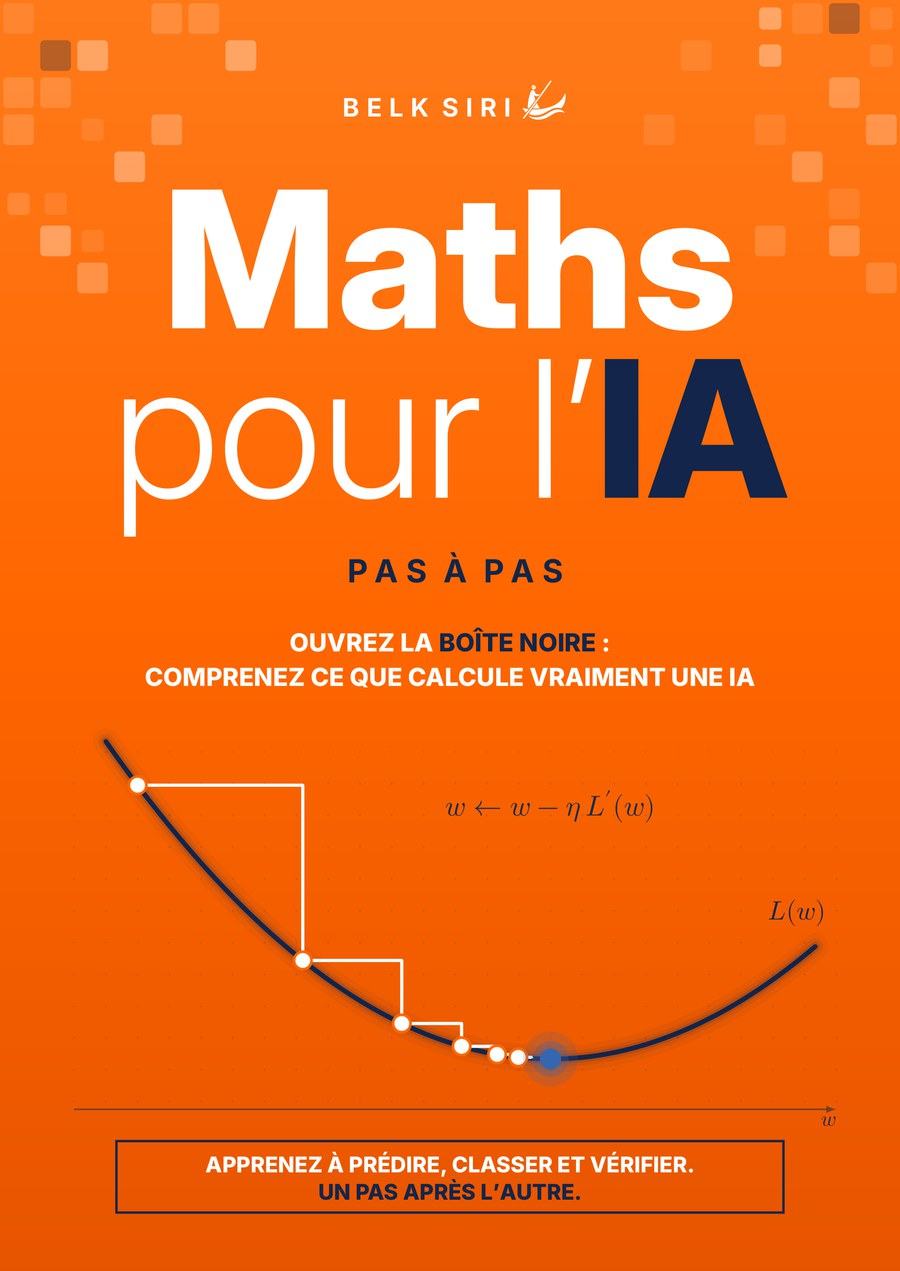
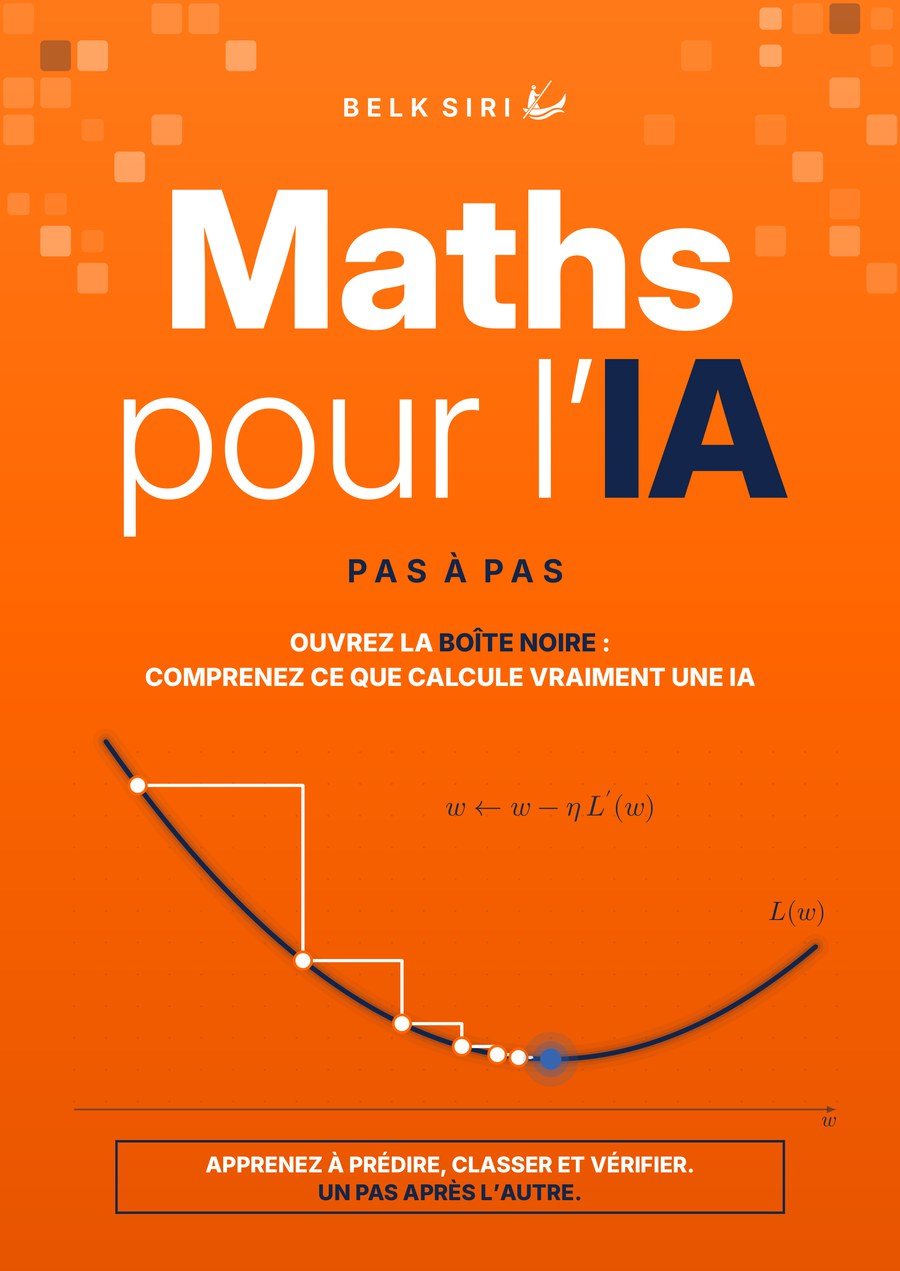
Maths pour l'IA : couverture et titre propres aux pages EN, ES et DE
Chaque page traduite affiche la couverture et le titre de son édition
(en préparation) ; les ressources restent celles de l'édition française.

diff --git a/maths-pour-l-ia-pas-a-pas/es.html b/maths-pour-l-ia-pas-a-pas/es.html
@@ -3,8 +3,8 @@
 <head>
 <meta charset="utf-8">
 <meta name="viewport" content="width=device-width, initial-scale=1">
-<title>Maths pour l&#x27;IA, pas à pas — Recursos del lector — Belk Siri</title>
-<meta name="description" content="Recursos del lector de Maths pour l&#x27;IA, pas à pas (edición francesa): 14 notebooks de Jupyter, para completar y soluciones, datos e instrucciones.">
+<title>Matemáticas para la IA, paso a paso — Recursos del lector — Belk Siri</title>
+<meta name="description" content="Recursos del lector de Matemáticas para la IA, paso a paso: 14 notebooks de Jupyter (en francés), para completar y soluciones, datos e instrucciones.">
 <link rel="canonical" href="https://belksiri.github.io/books/maths-pour-l-ia-pas-a-pas/es.html"><link rel="alternate" hreflang="fr" href="https://belksiri.github.io/books/maths-pour-l-ia-pas-a-pas/"><link rel="alternate" hreflang="en" href="https://belksiri.github.io/books/maths-pour-l-ia-pas-a-pas/en.html"><link rel="alternate" hreflang="es" href="https://belksiri.github.io/books/maths-pour-l-ia-pas-a-pas/es.html"><link rel="alternate" hreflang="de" href="https://belksiri.github.io/books/maths-pour-l-ia-pas-a-pas/de.html"><link rel="alternate" hreflang="x-default" href="https://belksiri.github.io/books/maths-pour-l-ia-pas-a-pas/">
 <link rel="icon" href="assets/logo-belksiri.svg" type="image/svg+xml">
 <link rel="stylesheet" href="style.css?v=26e6468368">
@@ -15,13 +15,13 @@
   <nav aria-label="Idioma de la página"><ul class="lang"><li><a href="./" hreflang="fr" lang="fr">Français</a></li><li><a href="en.html" hreflang="en" lang="en">English</a></li><li><a href="es.html" hreflang="es" lang="es" aria-current="page">Español</a></li><li><a href="de.html" hreflang="de" lang="de">Deutsch</a></li></ul></nav>
  </div>
  <div class="wrap hero">
-  <img src="assets/couverture-fr.jpg?v=5888478eb6" width="900" height="1271" alt="Cubierta de «Maths pour l’IA, pas à pas», de Belk Siri: una curva azul marino sobre fondo naranja, que desciende paso a paso hasta su mínimo.">
+  <img src="assets/couverture-es.jpg?v=6435121edf" width="900" height="1271" alt="Cubierta de «Matemáticas para la IA, paso a paso», de Belk Siri: una curva azul marino sobre fondo naranja, que desciende paso a paso hasta su mínimo.">
   <div class="text">
-   <p class="kicker">Recursos del lector · Edición francesa</p>
-   <h1 lang="fr">Maths pour l’IA, <span class="accent">pas à pas</span></h1>
+   <p class="kicker">Recursos del lector · Edición en español en preparación</p>
+   <h1>Matemáticas para la IA, <span class="accent">paso a paso</span></h1>
    <p class="author">Belk Siri</p>
    <p class="intro">Los complementos del libro: para cada uno de los siete capítulos, un notebook de Jupyter para completar y su solución, para abrir en Colab sin instalar nada o para descargar. Los datos ya están dentro de cada notebook.</p>
-   <p class="attente" role="note">Los recursos en español aún no están listos. Mientras tanto, los recursos en francés están disponibles en esta página: los notebooks, los datos y las instrucciones están en francés.</p>
+   <p class="attente" role="note">La edición en español del libro está en preparación. Mientras tanto, esta página ofrece los recursos de la edición francesa: los notebooks, los datos y las instrucciones están en francés.</p>
    <a class="btn" href="telechargements/maths-pour-l-ia-pas-a-pas-ressources-fr.zip" download><svg viewBox="0 0 24 24" aria-hidden="true" fill="none" stroke="currentColor" stroke-width="2.2" stroke-linecap="round" stroke-linejoin="round"><path d="M12 3v12m0 0-5-5m5 5 5-5M4 19h16"/></svg>Descargar todos los recursos</a>
    <span class="btn-note">Archivo ZIP · 152 KB · 14 notebooks, datos CSV, instrucciones</span>
   </div>

diff --git a/maths-pour-l-ia-pas-a-pas/de.html b/maths-pour-l-ia-pas-a-pas/de.html
@@ -3,8 +3,8 @@
 <head>
 <meta charset="utf-8">
 <meta name="viewport" content="width=device-width, initial-scale=1">
-<title>Maths pour l&#x27;IA, pas à pas — Begleitmaterial — Belk Siri</title>
-<meta name="description" content="Begleitmaterial zu Maths pour l&#x27;IA, pas à pas (französische Ausgabe): 14 Jupyter-Notebooks zum Ausfüllen und Lösungen, Daten und Anleitung.">
+<title>Mathe für KI, Schritt für Schritt — Begleitmaterial — Belk Siri</title>
+<meta name="description" content="Begleitmaterial zu Mathe für KI, Schritt für Schritt: 14 Jupyter-Notebooks (auf Französisch) zum Ausfüllen und Lösungen, Daten und Anleitung.">
 <link rel="canonical" href="https://belksiri.github.io/books/maths-pour-l-ia-pas-a-pas/de.html"><link rel="alternate" hreflang="fr" href="https://belksiri.github.io/books/maths-pour-l-ia-pas-a-pas/"><link rel="alternate" hreflang="en" href="https://belksiri.github.io/books/maths-pour-l-ia-pas-a-pas/en.html"><link rel="alternate" hreflang="es" href="https://belksiri.github.io/books/maths-pour-l-ia-pas-a-pas/es.html"><link rel="alternate" hreflang="de" href="https://belksiri.github.io/books/maths-pour-l-ia-pas-a-pas/de.html"><link rel="alternate" hreflang="x-default" href="https://belksiri.github.io/books/maths-pour-l-ia-pas-a-pas/">
 <link rel="icon" href="assets/logo-belksiri.svg" type="image/svg+xml">
 <link rel="stylesheet" href="style.css?v=26e6468368">
@@ -15,13 +15,13 @@
   <nav aria-label="Sprache der Seite"><ul class="lang"><li><a href="./" hreflang="fr" lang="fr">Français</a></li><li><a href="en.html" hreflang="en" lang="en">English</a></li><li><a href="es.html" hreflang="es" lang="es">Español</a></li><li><a href="de.html" hreflang="de" lang="de" aria-current="page">Deutsch</a></li></ul></nav>
  </div>
  <div class="wrap hero">
-  <img src="assets/couverture-fr.jpg?v=5888478eb6" width="900" height="1271" alt="Titelseite von „Maths pour l’IA, pas à pas“ von Belk Siri: eine dunkelblaue Kurve auf orangefarbenem Grund, die Schritt für Schritt bis zu ihrem Minimum absteigt.">
+  <img src="assets/couverture-de.jpg?v=bdc043dda6" width="900" height="1271" alt="Titelseite von „Mathe für KI, Schritt für Schritt“ von Belk Siri: eine dunkelblaue Kurve auf orangefarbenem Grund, die Schritt für Schritt bis zu ihrem Minimum absteigt.">
   <div class="text">
-   <p class="kicker">Begleitmaterial · Französische Ausgabe</p>
-   <h1 lang="fr">Maths pour l’IA, <span class="accent">pas à pas</span></h1>
+   <p class="kicker">Begleitmaterial · Deutsche Ausgabe in Vorbereitung</p>
+   <h1>Mathe für KI, <span class="accent">Schritt für Schritt</span></h1>
    <p class="author">Belk Siri</p>
    <p class="intro">Das Begleitmaterial zum Buch: für jedes der sieben Kapitel ein Jupyter-Notebook zum Ausfüllen und seine Lösung, zum Öffnen in Colab ohne Installation oder zum Herunterladen. Die Daten sind bereits in jedem Notebook enthalten.</p>
-   <p class="attente" role="note">Das deutsche Begleitmaterial ist noch nicht fertig. Bis dahin steht auf dieser Seite das französische Material bereit: Notebooks, Daten und Anleitung sind auf Französisch.</p>
+   <p class="attente" role="note">Die deutsche Ausgabe des Buches ist in Vorbereitung. Bis dahin steht auf dieser Seite das Material der französischen Ausgabe bereit: Notebooks, Daten und Anleitung sind auf Französisch.</p>
    <a class="btn" href="telechargements/maths-pour-l-ia-pas-a-pas-ressources-fr.zip" download><svg viewBox="0 0 24 24" aria-hidden="true" fill="none" stroke="currentColor" stroke-width="2.2" stroke-linecap="round" stroke-linejoin="round"><path d="M12 3v12m0 0-5-5m5 5 5-5M4 19h16"/></svg>Alle Materialien herunterladen</a>
    <span class="btn-note">ZIP-Archiv · 152 KB · 14 Notebooks, CSV-Daten, Anleitung</span>
   </div>

diff --git a/maths-pour-l-ia-pas-a-pas/en.html b/maths-pour-l-ia-pas-a-pas/en.html
@@ -3,8 +3,8 @@
 <head>
 <meta charset="utf-8">
 <meta name="viewport" content="width=device-width, initial-scale=1">
-<title>Maths pour l&#x27;IA, pas à pas — Reader resources — Belk Siri</title>
-<meta name="description" content="Reader resources for Maths pour l&#x27;IA, pas à pas (French edition): 14 Jupyter notebooks, to complete and solutions, data and instructions.">
+<title>Maths for AI, step by step — Reader resources — Belk Siri</title>
+<meta name="description" content="Reader resources for Maths for AI, step by step: 14 Jupyter notebooks (in French), to complete and solutions, data and instructions.">
 <link rel="canonical" href="https://belksiri.github.io/books/maths-pour-l-ia-pas-a-pas/en.html"><link rel="alternate" hreflang="fr" href="https://belksiri.github.io/books/maths-pour-l-ia-pas-a-pas/"><link rel="alternate" hreflang="en" href="https://belksiri.github.io/books/maths-pour-l-ia-pas-a-pas/en.html"><link rel="alternate" hreflang="es" href="https://belksiri.github.io/books/maths-pour-l-ia-pas-a-pas/es.html"><link rel="alternate" hreflang="de" href="https://belksiri.github.io/books/maths-pour-l-ia-pas-a-pas/de.html"><link rel="alternate" hreflang="x-default" href="https://belksiri.github.io/books/maths-pour-l-ia-pas-a-pas/">
 <link rel="icon" href="assets/logo-belksiri.svg" type="image/svg+xml">
 <link rel="stylesheet" href="style.css?v=26e6468368">
@@ -15,13 +15,13 @@
   <nav aria-label="Page language"><ul class="lang"><li><a href="./" hreflang="fr" lang="fr">Français</a></li><li><a href="en.html" hreflang="en" lang="en" aria-current="page">English</a></li><li><a href="es.html" hreflang="es" lang="es">Español</a></li><li><a href="de.html" hreflang="de" lang="de">Deutsch</a></li></ul></nav>
  </div>
  <div class="wrap hero">
-  <img src="assets/couverture-fr.jpg?v=5888478eb6" width="900" height="1271" alt="Front cover of “Maths pour l’IA, pas à pas” by Belk Siri: a navy curve on an orange background, descending step by step to its minimum.">
+  <img src="assets/couverture-en.jpg?v=4c822de349" width="900" height="1271" alt="Front cover of “Maths for AI, step by step” by Belk Siri: a navy curve on an orange background, descending step by step to its minimum.">
   <div class="text">
-   <p class="kicker">Reader resources · French edition</p>
-   <h1 lang="fr">Maths pour l’IA, <span class="accent">pas à pas</span></h1>
+   <p class="kicker">Reader resources · English edition in preparation</p>
+   <h1>Maths for AI, <span class="accent">step by step</span></h1>
    <p class="author">Belk Siri</p>
    <p class="intro">Companion material for the book: for each of the seven chapters, a Jupyter notebook to complete and its solution, to open in Colab with nothing to install, or to download. The data is already inside each notebook.</p>
-   <p class="attente" role="note">The English resources are not ready yet. In the meantime, the French resources are available on this page: the notebooks, data and instructions are in French.</p>
+   <p class="attente" role="note">The English edition of the book is in preparation. In the meantime, this page offers the resources of the French edition: the notebooks, data and instructions are in French.</p>
    <a class="btn" href="telechargements/maths-pour-l-ia-pas-a-pas-ressources-fr.zip" download><svg viewBox="0 0 24 24" aria-hidden="true" fill="none" stroke="currentColor" stroke-width="2.2" stroke-linecap="round" stroke-linejoin="round"><path d="M12 3v12m0 0-5-5m5 5 5-5M4 19h16"/></svg>Download all resources</a>
    <span class="btn-note">ZIP archive · 152 KB · 14 notebooks, CSV data, instructions</span>
   </div>

diff --git a/maths-pour-l-ia-pas-a-pas/index.html b/maths-pour-l-ia-pas-a-pas/index.html
@@ -15,7 +15,7 @@
   <nav aria-label="Langue de la page"><ul class="lang"><li><a href="./" hreflang="fr" lang="fr" aria-current="page">Français</a></li><li><a href="en.html" hreflang="en" lang="en">English</a></li><li><a href="es.html" hreflang="es" lang="es">Español</a></li><li><a href="de.html" hreflang="de" lang="de">Deutsch</a></li></ul></nav>
  </div>
  <div class="wrap hero">
-  <img src="assets/couverture-fr.jpg?v=5888478eb6" width="900" height="1271" alt="Première de couverture de « Maths pour l’IA, pas à pas », de Belk Siri : une courbe bleu nuit sur fond orange, descendue pas à pas jusqu&#x27;à son minimum.">
+  <img src="assets/couverture-fr.jpg?v=b8098fd8fe" width="900" height="1271" alt="Première de couverture de « Maths pour l’IA, pas à pas », de Belk Siri : une courbe bleu nuit sur fond orange, descendue pas à pas jusqu&#x27;à son minimum.">
   <div class="text">
    <p class="kicker">Ressources du lecteur</p>
    <h1>Maths pour l’IA, <span class="accent">pas à pas</span></h1>
